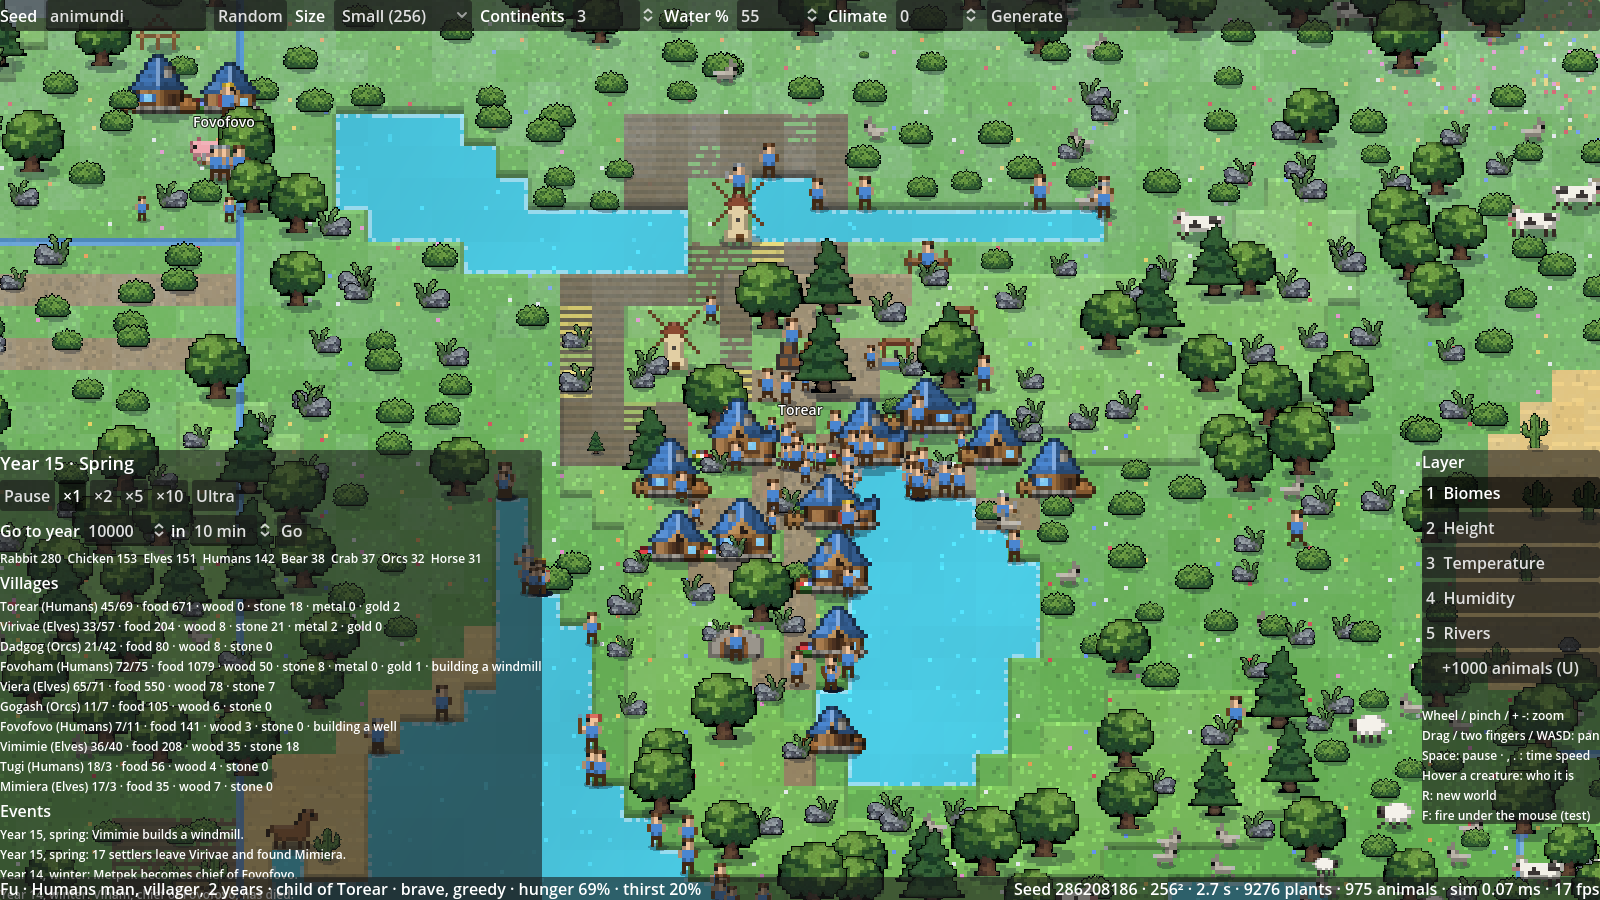
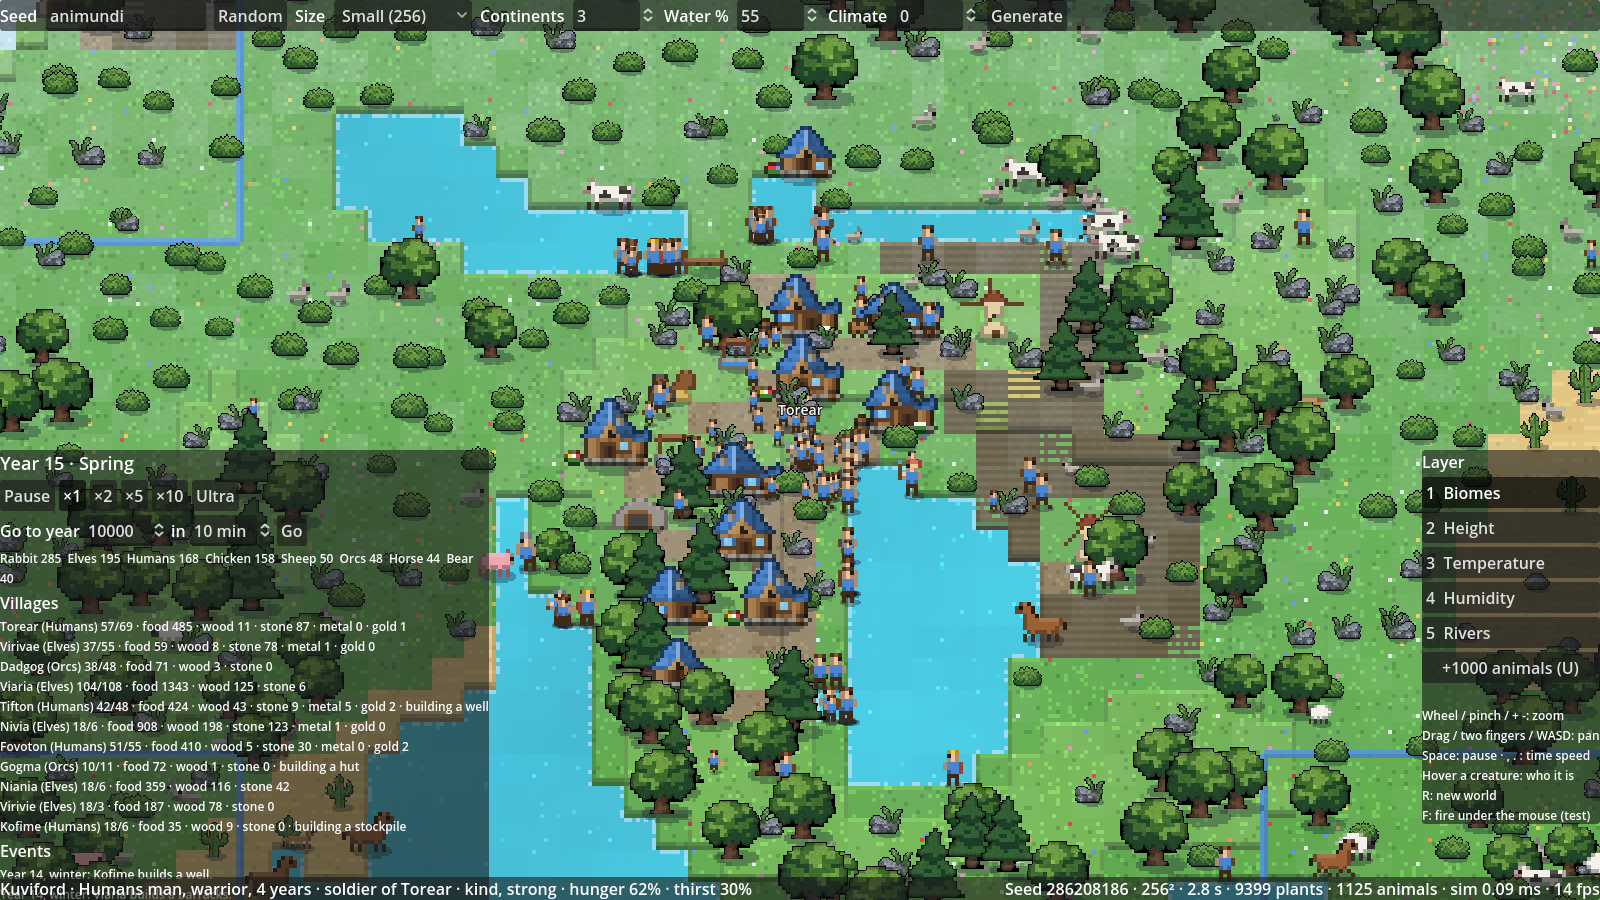
No building hangs over water
A building may only stand where every tile its sprite covers is land: the sprite is measured
(centred, standing on the bottom of its tile), and a home at the size of its last tier, since it
is upgraded in place. Docks still stand on the shore. Test: no building's sprite over water.

Claude-Session: https://claude.ai/code/session_01Goyuuk67E4s9WRmQp2FGBR

diff --git a/sim/Villages.cs b/sim/Villages.cs
@@ -537,7 +537,7 @@ public partial class Simulation
 			int t = World.Index(x, y);
 			if (_buildingAt[t] >= 0 || _ground[t] == GroundField || TileBurn[t] > 0f || _biomeNames[World.Biome[t]] == "Lava")
 				continue;
-			if (BuildingWithin(x, y, 1) >= 0)
+			if (BuildingWithin(x, y, 1) >= 0 || !FootprintOnLand(v, Assets.BuildingIndex(rec.Id), x, y))
 				continue;
 			float dx = x - village.X, dy = y - village.Y;
 			float dist = MathF.Sqrt(dx * dx + dy * dy);
@@ -592,6 +592,38 @@ public partial class Simulation
 			}
 		}
 		return best;
+	}
+
+	/// <summary>Size in world pixels of what a building of `type` at (x, y) will look like at its
+	/// biggest: a home is measured at its last tier (it is upgraded in place), in its variant.</summary>
+	private Vector2 FootprintSize(int v, int type, int x, int y)
+	{
+		int species = Villages[v].Species;
+		var size = Vector2.Zero;
+		var types = _houseTypes.Contains(type) ? (IEnumerable<int>)_houseTypes : new[] { type };
+		foreach (int t in types)
+		{
+			var s = SpriteInfo(SpriteId(t, species, x, y)).size;
+			size = new Vector2(Math.Max(size.X, s.X), Math.Max(size.Y, s.Y));
+		}
+		// No sprite (tools without the art): a conservative three tiles by three.
+		return size == Vector2.Zero ? new Vector2(Tile * 3, Tile * 3) : size;
+	}
+
+	/// <summary>Whether every tile a building's sprite covers is land, so no house hangs over
+	/// water. The sprite stands on the bottom of its tile, centred. Docks stand on the shore.</summary>
+	private bool FootprintOnLand(int v, int type, int x, int y)
+	{
+		if (type == _tDock)
+			return World.IsLand(x, y);
+		var size = FootprintSize(v, type, x, y);
+		int half = Math.Max(0, (int)MathF.Ceiling((size.X / 2f - Tile / 2f) / Tile));
+		int rows = Math.Max(1, (int)MathF.Ceiling(size.Y / Tile));
+		for (int dy = 0; dy < rows; dy++)
+			for (int dx = -half; dx <= half; dx++)
+				if (!World.IsLand(x + dx, y - dy))
+					return false;
+		return true;
 	}
 
 	/// <summary>A building within `r` tiles (Chebyshev) of (x, y), of `type` if it is not -1.</summary>
@@ -1112,6 +1144,7 @@ public partial class Simulation
 			{
 				["id"] = Assets.Buildings[bld.Type].Id, ["village"] = bld.Village, ["x"] = bld.X, ["y"] = bld.Y,
 				["done"] = bld.Done, ["burning"] = bld.Burning > 0f, ["owner_ok"] = Owns(bld.Village, bld.X, bld.Y),
+				["on_land"] = bld.Type == _tBonfire || bld.Type == _tRuin || FootprintOnLand(bld.Village, bld.Type, bld.X, bld.Y),
 			});
 		}
 		return list;

diff --git a/sim/Draw.cs b/sim/Draw.cs
@@ -277,15 +277,21 @@ public partial class Simulation
 			return BonfireFrames[(int)(time * 6f + bld.X) % 3];
 		if (bld.Type == _tWindmill)
 			return WindmillFrames[(int)(time * 3f + bld.X) % 2];
-		int species = Villages[bld.Village].Species;
-		int variant = _houseTypes.Contains(bld.Type) ? (int)((uint)(bld.X * 73856093 ^ bld.Y * 19349663) % HomeVariants) : 0;
-		if (!_buildingSprites.TryGetValue((bld.Type, species, variant), out var id))
+		return SpriteId(bld.Type, Villages[bld.Village].Species, bld.X, bld.Y);
+	}
+
+	/// <summary>The sprite of a standing building of `type` of `species` at tile (x, y): homes
+	/// pick one of their variants from their place.</summary>
+	private string SpriteId(int type, int species, int x, int y)
+	{
+		int variant = _houseTypes.Contains(type) ? (int)((uint)(x * 73856093 ^ y * 19349663) % HomeVariants) : 0;
+		if (!_buildingSprites.TryGetValue((type, species, variant), out var id))
 		{
-			string b = Assets.Buildings[bld.Type].Id;
+			string b = Assets.Buildings[type].Id;
 			string people = Assets.Species[species].Id;
-			id = _houseTypes.Contains(bld.Type) ? $"buildings/{b}_{people}_{variant}"
+			id = _houseTypes.Contains(type) ? $"buildings/{b}_{people}_{variant}"
 				: PeopleStyled.Contains(b) ? $"buildings/{b}_{people}" : $"buildings/{b}";
-			_buildingSprites[(bld.Type, species, variant)] = id;
+			_buildingSprites[(type, species, variant)] = id;
 		}
 		return id;
 	}
